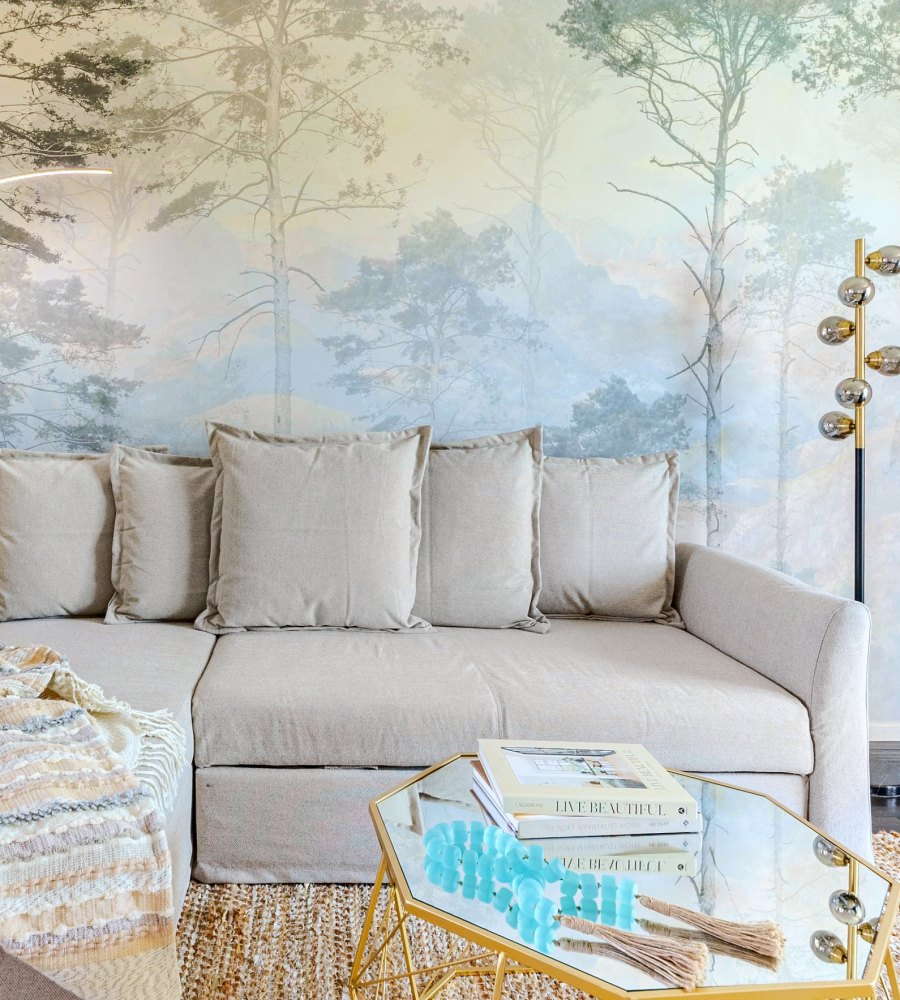
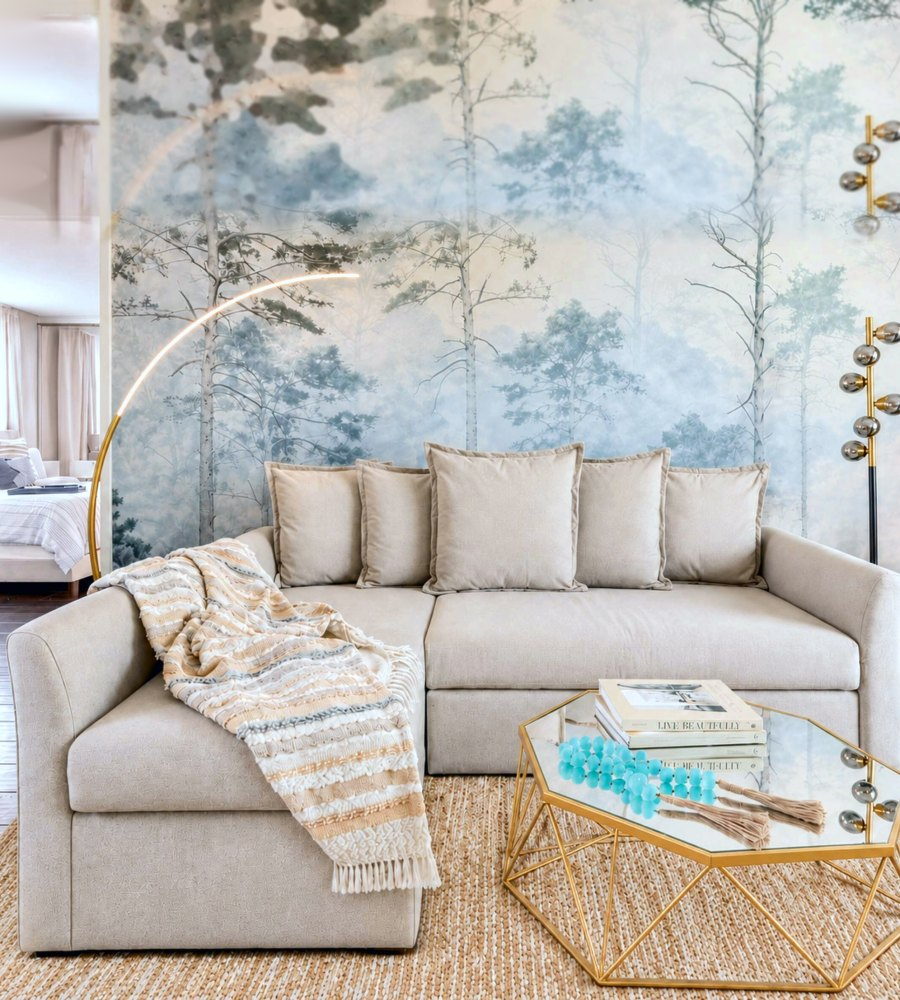
Forest & Ocean card: full couch, centered
Claude-Session: https://claude.ai/code/session_012xw2xExUBmuc9fQH3uMMqH

diff --git a/index.html b/index.html
@@ -670,7 +670,7 @@ var PHOTOS = (typeof window!=='undefined' && window.__PHOTOS__) || {};
 LISTINGS.forEach(function(l){
   if(PHOTOS[l.id] && PHOTOS[l.id].length) l.images = PHOTOS[l.id].slice();
   l.images = l.images.map(function(u){ return u.split('?')[0]; });
-  l.card = 'images/cards/'+l.id+'.jpg?v=5';
+  l.card = 'images/cards/'+l.id+'.jpg?v=6';
 });
 function pic(u,w){ return u + '?im_w=' + w; }
 
